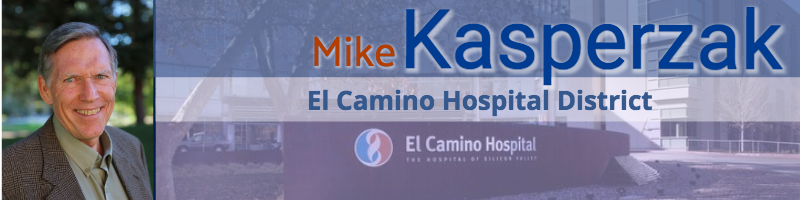
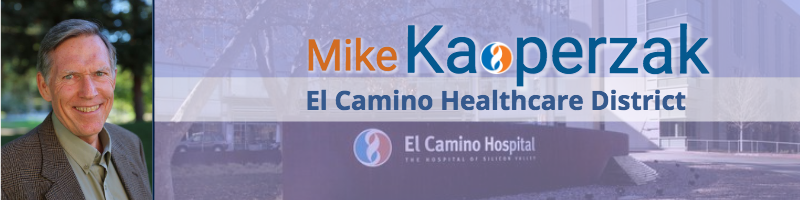
Deduplicate header; Fix typo in header

diff --git a/style.css b/style.css
@@ -11,7 +11,7 @@ body>div {
 }
 
 .header {
-  background-image: url(images/kasperzak-hospital-header2.png);
+  background-image: url(images/kasperzak-hospital-header.png);
   height: 200px;
   vertical-align: bottom;
   text-align: center;
